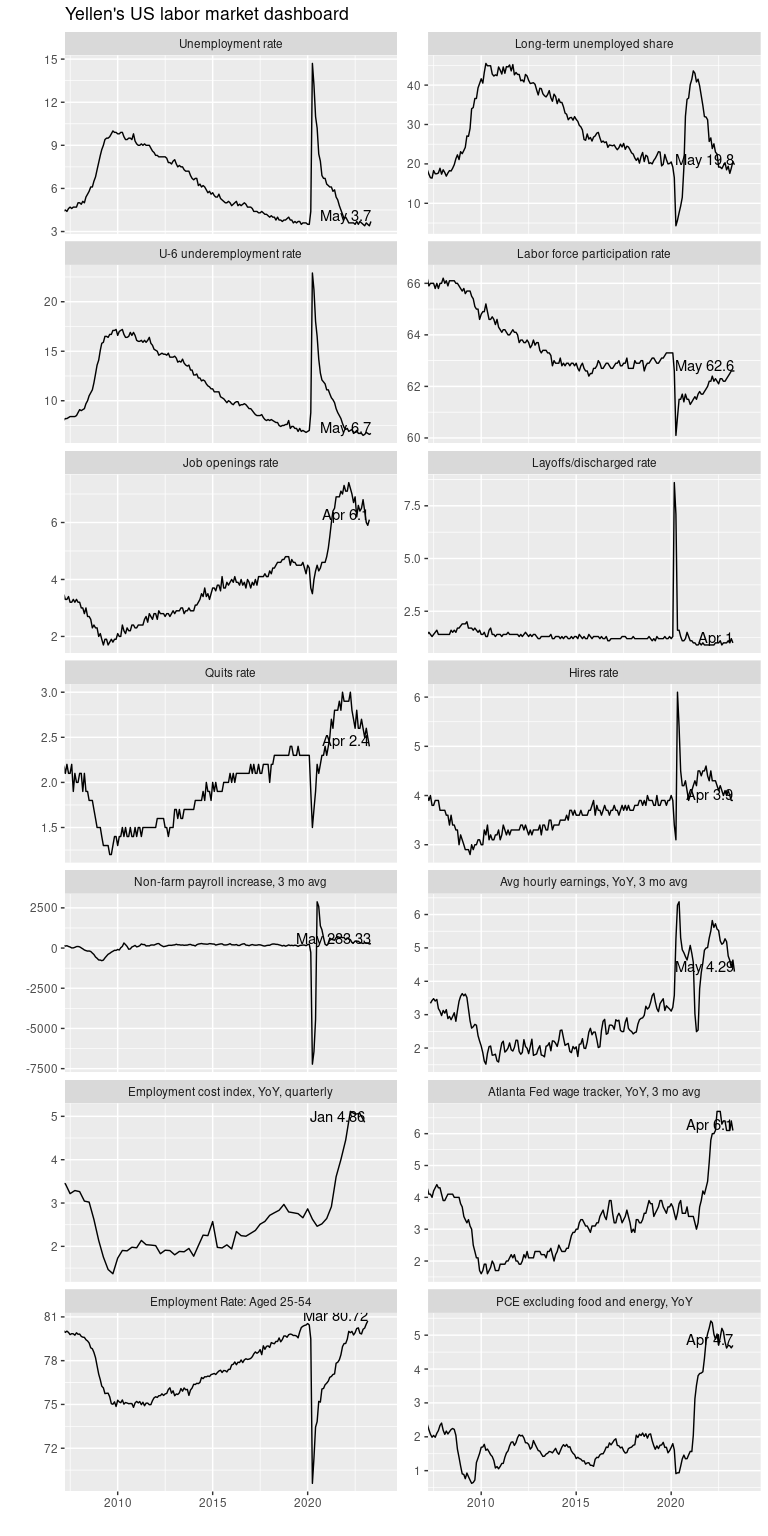
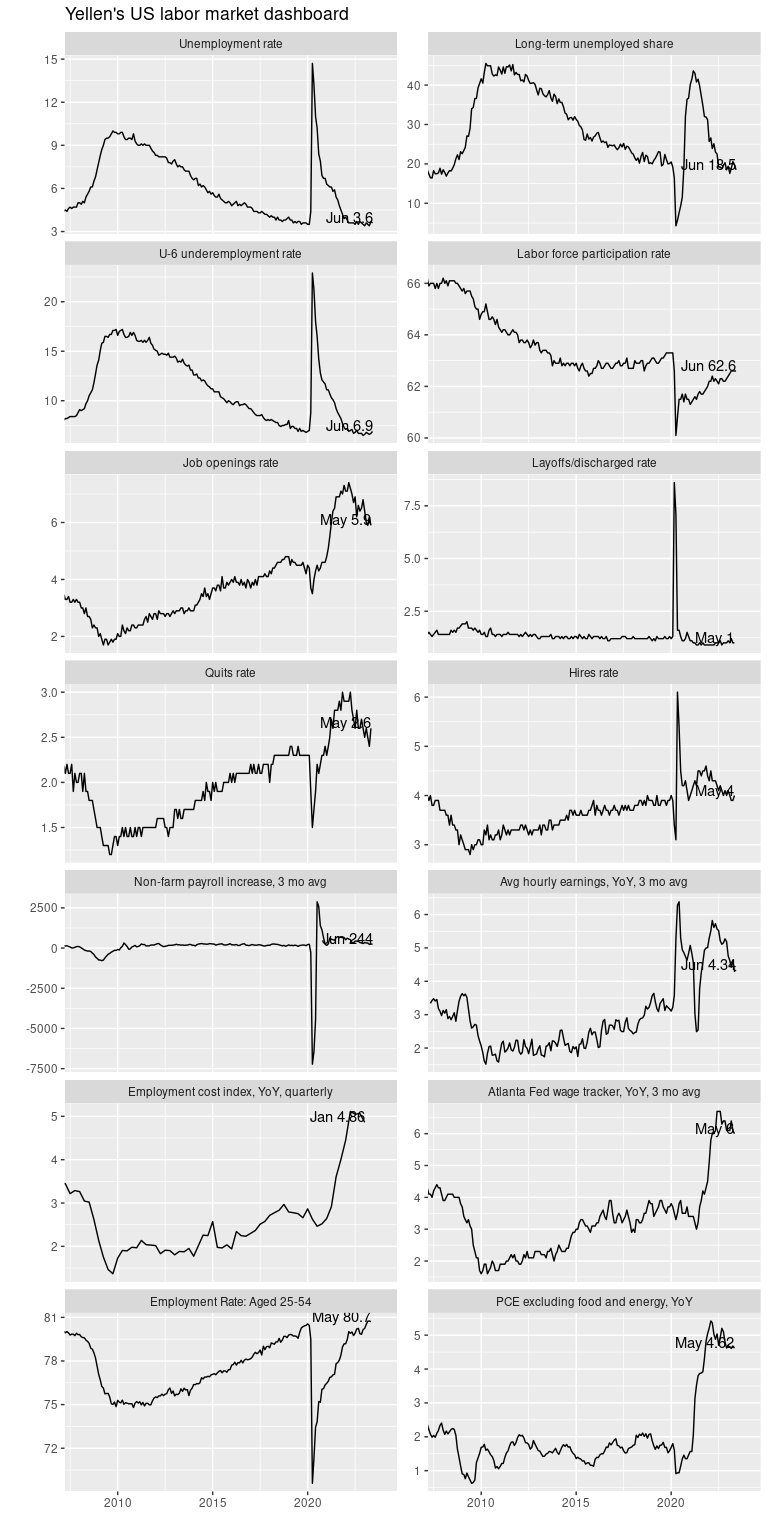
update June 2023 employment

diff --git a/README.md b/README.md
@@ -3,22 +3,18 @@ Yellen dashboard
 Mitsuo Shiota
 2019-03-19
 
-- <a href="#summary" id="toc-summary">Summary</a>
-- <a href="#libraries" id="toc-libraries">Libraries</a>
-- <a href="#self-made-tqr-package"
-  id="toc-self-made-tqr-package">Self-made tqr package</a>
-- <a href="#get-data-from-fred" id="toc-get-data-from-fred">Get data from
-  FRED</a>
-- <a href="#transform-data" id="toc-transform-data">Transform data</a>
-- <a href="#get-data-from-atlanta-fed-wage-growth-trucker"
-  id="toc-get-data-from-atlanta-fed-wage-growth-trucker">Get data from
-  Atlanta Fed Wage Growth Trucker</a>
-- <a href="#combine-data" id="toc-combine-data">Combine data</a>
-- <a href="#prepare-for-the-plot" id="toc-prepare-for-the-plot">Prepare
-  for the plot</a>
-- <a href="#dashboard" id="toc-dashboard">Dashboard</a>
+- [Summary](#summary)
+- [Libraries](#libraries)
+- [Self-made tqr package](#self-made-tqr-package)
+- [Get data from FRED](#get-data-from-fred)
+- [Transform data](#transform-data)
+- [Get data from Atlanta Fed Wage Growth
+  Trucker](#get-data-from-atlanta-fed-wage-growth-trucker)
+- [Combine data](#combine-data)
+- [Prepare for the plot](#prepare-for-the-plot)
+- [Dashboard](#dashboard)
 
-Updated: 2023-06-03
+Updated: 2023-07-08
 
 ## Summary
 
